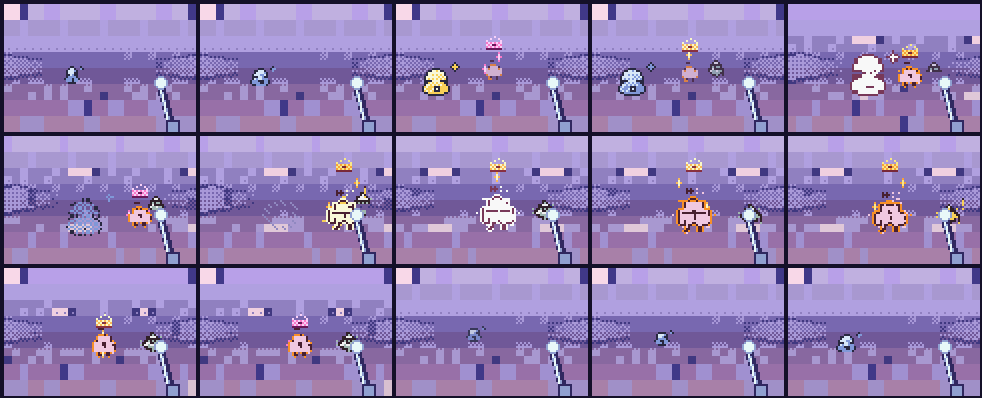
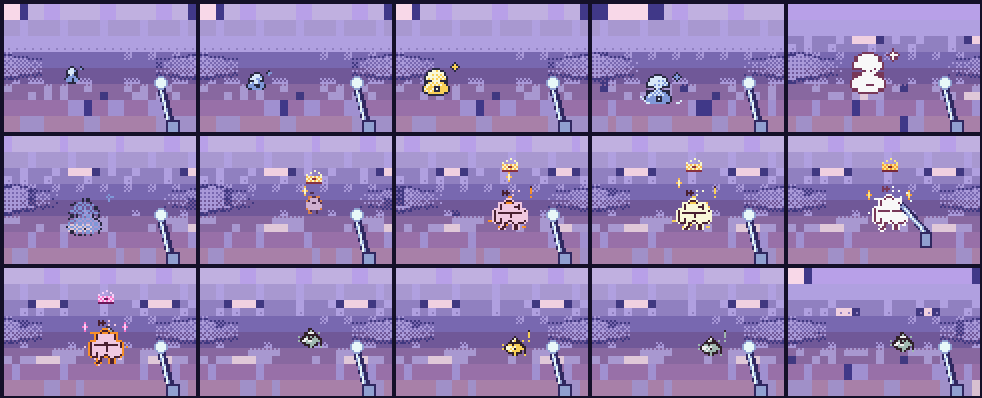
Raycaster v2 combat: stagger spawns for the 10-sprites-per-line limit (peak 8, 21.3 fps)
measure2.py counts OBJ per scanline from live OAM; the first cut peaked at 12 on 114 of 960 frames. The elite now
waits deep in the room until the first mob is down and the second mob enters after it.

diff --git a/proto/raycast/v2/src/scenes2.h b/proto/raycast/v2/src/scenes2.h
@@ -8,7 +8,7 @@ static void scene_update(uint8_t dt) {
 }
 #else
 
-static uint16_t sclock;
+uint16_t sclock; /* global so measure2.py can log the beat */
 /* looping clock without a division: dt is a few views at most */
 #define SCLOCK_STEP(dt) do { sclock += (dt); while (sclock >= LOOP) sclock -= LOOP; } while (0)
 
@@ -32,16 +32,19 @@ static uint16_t lerp_f(uint16_t a, uint16_t b, uint8_t f) {
 #define CELL(x) ((uint16_t)((x) * 256.0))
 
 #if SCENE == 1
-/* combat: a mob, a second mob and an elite come down an office room; the heir sidesteps a tell, strikes, kills the
-   first, parries the elite's wind-up, charges it, then backsteps the second mob. 7 s loop. */
-#define LOOP 420u
+/* combat: a mob, an elite and a second mob come down an office room; the heir sidesteps a tell, strikes, kills the
+   first, parries the elite's wind-up, charges it, then backsteps the second mob. 8 s loop.
+   Spawns are staggered for the CGB's 10-sprites-per-line limit: billboards share the horizon rows, so the columns
+   of every mob in view (plus the weapon's 2) must stay <= 10. The elite waits deep in the room (small) until the
+   first mob is down, and the second mob only enters after that. */
+#define LOOP 480u
 #ifndef ROOMX
-#define ROOMX 14 /* far wall of the room (cells): the depth knob for the combat budget */
+#define ROOMX 14 /* far wall of the room (cells) */
 #endif
 static void scene_init(void) {
   box(0, 0, 31, 31, 1);
   box(3, 3, ROOMX, 9, 0);
-  map[6u * MAPW + ROOMX + 1u] = 2; /* a door at the far end */
+  map[6u * MAPW + ROOMX + 1u] = 2;
   dress();
   cam_a = 0;
 }
@@ -62,41 +65,45 @@ static void scene_update(uint8_t dt) {
   SCLOCK_STEP(dt);
   t = sclock;
   walk = (t >> 3) & 1u ? BB_WALK1 : BB_WALK0;
-  /* camera: sidestep (B) at 150, lunge with the strikes at 170-200, backstep at 345 */
+  /* camera: sidestep (B) at 150, lunge with the strikes at 165-185, backstep at 425 */
   cam_x = lerp16(CELL(4.5), CELL(4.9), t, 165u, 185u);
-  if (t >= 330u) cam_x = lerp16(CELL(4.9), CELL(4.3), t, 345u, 360u);
+  if (t >= 410u) cam_x = lerp16(CELL(4.9), CELL(4.3), t, 425u, 440u);
   cam_y = t < 240u ? lerp16(CELL(6.5), CELL(5.9), t, 150u, 162u) : lerp16(CELL(5.9), CELL(6.5), t, 240u, 260u);
   cam_a = 0;
-  /* mob 0: approaches, tells at 120, attacks at 150 (dodged), is hit at 172 and 192, dies */
+  /* mob 0: approaches, tells at 110, attacks at 150 (dodged), is hit at 172 and 192, dies, gone at 228 */
   mob_at(0, 0, lerp16(CELL(ROOMX - 2.5), CELL(6.5), t, 0u, 110u), CELL(5.7));
   mob[0].frame = walk;
   if (t >= 110u && t < 150u) { mob[0].frame = BB_TELL; mob[0].fx = FX_TELL; }
   else if (t >= 150u && t < 166u) mob[0].frame = BB_ATTACK;
   else if ((t >= 172u && t < 182u) || (t >= 192u && t < 200u)) { mob[0].frame = BB_HURT; mob[0].fx = FX_HIT; }
   else if (t >= 200u) {
-    mob[0].frame = t < 214u ? BB_DIE0 : BB_DIE1;
+    mob[0].frame = t < 212u ? BB_DIE0 : BB_DIE1;
     mob[0].fx = FX_DEAD;
-    mob[0].fxt = (uint8_t)((t - 200u) / 3u);
-    if (t >= 250u) mob[0].on = 0;
+    mob[0].fxt = (uint8_t)((t - 200u) >> 1);
+    if (t >= 228u) mob[0].on = 0;
   }
-  /* mob 1: hangs back, then tells at 300 and attacks at 340 (backstepped) */
-  mob_at(1, 1, lerp16(CELL(ROOMX - 1.5), CELL(7.3), t, 20u, 300u), CELL(7.6));
-  mob[1].frame = walk;
-  if (t >= 300u && t < 340u) { mob[1].frame = BB_TELL; mob[1].fx = FX_TELL; }
-  else if (t >= 340u && t < 358u) mob[1].frame = BB_ATTACK;
-  /* the elite: slow, long tell at 220, parried at 262 (white flash + stagger), charged at 280-320 */
-  mob_at(2, 2, lerp16(CELL(ROOMX - 0.5), CELL(7.0), t, 40u, 220u), CELL(6.6));
+  /* the elite: holds deep in the room, closes in once mob 0 is down, long tell at 250, parried at 292 (white
+     flash + stagger), charged at 306-360 */
+  mob_at(2, 2, t < 228u ? lerp16(CELL(ROOMX - 0.5), CELL(ROOMX - 2.0), t, 40u, 228u)
+                        : lerp16(CELL(ROOMX - 2.0), CELL(7.0), t, 228u, 250u), CELL(6.6));
   mob[2].frame = (t >> 4) & 1u ? BB_WALK1 : BB_WALK0;
-  if (t >= 220u && t < 262u) { mob[2].frame = BB_TELL; mob[2].fx = FX_TELL; }
-  else if (t >= 262u && t < 276u) { mob[2].frame = BB_HURT; mob[2].fx = FX_HIT; }
-  else if (t >= 276u && t < 330u) {
-    mob[2].frame = ((t - 276u) % 16u) < 6u ? BB_HURT : BB_WALK0;
-    mob[2].fx = ((t - 276u) % 16u) < 6u ? FX_HIT : FX_NONE;
+  if (t >= 250u && t < 292u) { mob[2].frame = BB_TELL; mob[2].fx = FX_TELL; }
+  else if (t >= 292u && t < 306u) { mob[2].frame = BB_HURT; mob[2].fx = FX_HIT; }
+  else if (t >= 306u && t < 360u) {
+    mob[2].frame = ((t - 306u) & 15u) < 6u ? BB_HURT : BB_WALK0;
+    mob[2].fx = ((t - 306u) & 15u) < 6u ? FX_HIT : FX_NONE;
   }
-  /* weapon: strikes at 170, 190 (kill), the parry at 260, the charge 276-326 */
+  if (t >= 360u) mob[2].on = 0; /* broken and gone: the charge finished it */
+  /* mob 1: enters through the far door after the elite is engaged, tells at 380, attacks at 420 (backstepped) */
+  mob_at(1, 1, lerp16(CELL(ROOMX - 0.5), CELL(7.3), t, 300u, 380u), CELL(6.9));
+  mob[1].frame = walk;
+  if (t < 300u) mob[1].on = 0;
+  else if (t >= 380u && t < 420u) { mob[1].frame = BB_TELL; mob[1].fx = FX_TELL; }
+  else if (t >= 420u && t < 438u) mob[1].frame = BB_ATTACK;
+  /* weapon: strikes at 168, 188 (kill), the parry at 288, the charge 306-356 */
   weapon_frame = 0;
-  if ((t >= 168u && t < 176u) || (t >= 188u && t < 196u) || (t >= 258u && t < 266u) ||
-      (t >= 276u && t < 326u && ((t - 276u) % 16u) < 6u))
+  if ((t >= 168u && t < 176u) || (t >= 188u && t < 196u) || (t >= 288u && t < 296u) ||
+      (t >= 306u && t < 356u && ((t - 306u) & 15u) < 6u))
     weapon_frame = 1;
 }
 

diff --git a/proto/raycast/v2/measure2.py b/proto/raycast/v2/measure2.py
@@ -95,8 +95,25 @@ def main() -> int:
             read_upto += 1
 
     total = a.warmup + a.frames
+    line_max, over, over_at = 0, 0, []
+    # # OBJ per scanline (8x16), from live OAM: the CGB shows at most 10
+
+    def oam_lines():
+        cnt = [0] * 144
+        for i in range(40):
+            y = mem[0xFE00 + 4 * i] - 16
+            for ly in range(max(0, y), min(144, y + 16)):
+                cnt[ly] += 1
+        return max(cnt)
+
     for f in range(total):
         pb.tick(1, True)
+        if f >= a.warmup:
+            m = oam_lines()
+            line_max = max(line_max, m)
+            if m > 10:
+                over += 1
+                over_at.append((f, m, u16("sclock") if "_sclock" in sym else -1))
         if f % 8 == 0:
             drain()
         if f in pose_frames:
@@ -112,7 +129,7 @@ def main() -> int:
         views[i]["fpv"] = (views[i]["flip"] - views[i - 1]["flip"]) & 0xFFFF
     meas = [v for v in views[1:] if v["flip"] > a.warmup]
     fpv = [v["fpv"] for v in meas]
-    res = {"rom": a.rom.name, "view": f"{W}x{H}"}
+    res = {"rom": a.rom.name, "view": f"{W}x{H}", "obj_line_max": line_max, "obj_frames_over10": over, "obj_over_at": over_at[:: max(1, len(over_at) // 12)]}
     if fpv:
         span = meas[-1]["flip"] - meas[0]["flip"] + meas[0]["fpv"]
         res.update(views=len(fpv), frames=span, fps_avg=round(len(fpv) * FPS_LCD / span, 2),
